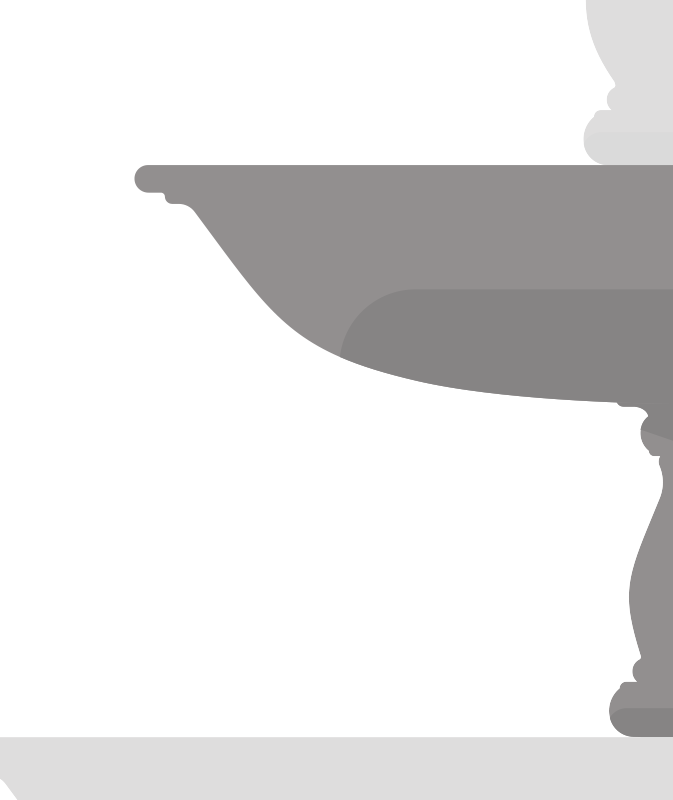
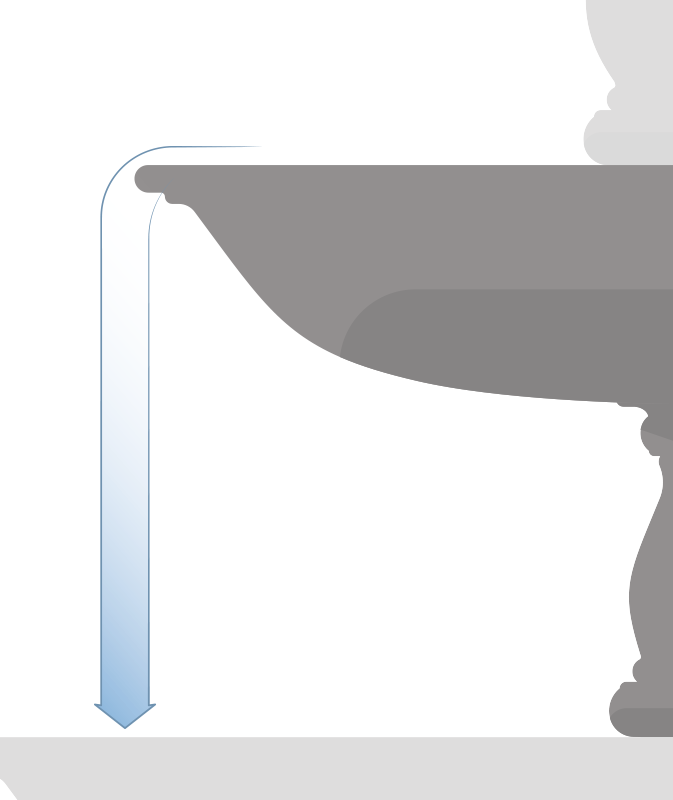
Stage 5 BG / Circles / Paths

Changed region(s): [[0.1248, 0.4688, 0.2496, 0.9062], [0.1872, 0.1875, 0.2184, 0.2188], [0.1248, 0.25, 0.156, 0.2812]]

diff --git a/assets/css/application.css b/assets/css/application.css
@@ -552,15 +552,15 @@ html, body {
 
 .stage-left {
   left: 0;
-  padding: 40px 20px 40px 80px;
-  border-right: 30.5px solid #6b6a6a;
+  margin-right: 30px;
+  padding: 40px 50px 40px 80px;
 }
 
 .stage-right {
   right: 0;
+  margin-left: 30px;
   padding: 40px 80px 40px 60px;
   background: #fff;
-  border-left: 31px solid #6b6a6a;
 }
 
 [data-segment] {
@@ -580,6 +580,7 @@ html, body {
   right: 140px;
   color: #438e47;
   text-align: right;
+  font-weight: 700;
 }
 
 .barriers {
@@ -587,8 +588,6 @@ html, body {
   top: 160px;
   right: 240px;
   color: #d83945;
-}
-.barriers li {
   font-weight: 700;
 }
 .barriers [class*="arrow-"] {
@@ -753,6 +752,7 @@ html, body {
   width: 61px;
   height: 100%;
   margin-left: -30px;
+  background: #4c4c4e;
 }
 
 .stage-mood {
@@ -1196,7 +1196,7 @@ html, body {
 }
 
 .stage-4 .stage-left {
-  background: url('/assets/images/bg-s4.png?1408657272') no-repeat right top;
+  background: url('/assets/images/bg-s4.png?1408658389') no-repeat right top;
 }
 
 .stage-4 .paths-circles {
@@ -1205,10 +1205,73 @@ html, body {
   right: 0;
   width: 658px;
   height: 612px;
-  background: url('/assets/images/paths-circles-s4.png?1408656901') no-repeat;
+  background: url('/assets/images/paths-circles-s4.png?1408657348') no-repeat;
+}
+
+.stage-4 .triggers {
+  top: 60px;
 }
 
 .stage-4 .barriers {
   top: 630px;
   right: 280px;
+}
+
+.stage-5 .stage-bg {
+  position: absolute;
+  top: 0;
+  left: 0;
+  width: 100%;
+  height: 100%;
+  background: url('/assets/images/bg-s5.png?1408659380') no-repeat center top;
+}
+
+.stage-5 .stage-right,
+.stage-5 .stage-paths {
+  margin-top: 389px;
+}
+
+.stage-5 .stage-right {
+  padding-top: 28px;
+}
+
+.stage-5 .stage-left {
+  border: none;
+}
+
+.stage-5 .circles {
+  position: absolute;
+  top: 0;
+  right: 300px;
+  width: 355px;
+  height: 384px;
+  background: url('/assets/images/circles-s5.png?1408661817') no-repeat;
+}
+
+.stage-5 .arrows {
+  position: absolute;
+  top: 396px;
+  right: 466px;
+  width: 25px;
+  height: 100%;
+  background: url('/assets/images/arrows-s5.png?1408662046') no-repeat;
+}
+
+.stage-5 .triggers {
+  top: 60px;
+  right: 90px;
+  text-align: left;
+}
+
+.stage-5 .barriers {
+  top: 560px;
+  right: 120px;
+}
+
+.stage-5 .urgency-note {
+  font-size: 12px;
+  font-size: 0.75rem;
+  clear: both;
+  padding-top: 20px;
+  font-style: italic;
 }

diff --git a/assets/sass/sections/_stage-5.scss b/assets/sass/sections/_stage-5.scss
@@ -1,0 +1,59 @@
+
+.stage-5 .stage-bg {
+  position: absolute;
+  top: 0;
+  left: 0;
+  width: 100%;
+  height: 100%;
+  background: $bg-s5 no-repeat center top;
+}
+
+.stage-5 .stage-right,
+.stage-5 .stage-paths {
+  margin-top: 389px;
+}
+
+.stage-5 .stage-right {
+  padding-top: 28px;
+}
+
+.stage-5 .stage-left {
+  border: none;
+}
+
+.stage-5 .circles {
+  position: absolute;
+  top: 0;
+  right: 300px;
+  width: 355px;
+  height: 384px;
+  background: $circles-s5 no-repeat;
+}
+
+.stage-5 .arrows {
+  position: absolute;
+  top: 396px;
+  right: 466px;
+  width: 25px;
+  height: 100%;
+  background: $arrows-s5 no-repeat;
+}
+
+.stage-5 .triggers {
+  top: 60px;
+  right: 90px;
+  text-align: left;
+}
+
+.stage-5 .barriers {
+  top: 560px;
+  right: 120px;
+}
+
+
+.stage-5 .urgency-note {
+  @include font-size(12px);
+  clear: both;
+  padding-top: 20px;
+  font-style: italic;
+}

diff --git a/assets/sass/global/_images.scss b/assets/sass/global/_images.scss
@@ -14,6 +14,8 @@ $circle-stay-s3: image-url("circle-stay-s3.png");
 
 $paths-circles-s4: image-url("paths-circles-s4.png");
 
+$circles-s5: image-url("circles-s5.png");
+
 
 
 
@@ -25,6 +27,8 @@ $arrow-down-s1: image-url("arrow-down-s1.png");
 
 $arrow-left-purple-s3: image-url("arrow-left-purple-s3.png");
 
+$arrows-s5: image-url("arrows-s5.png");
+
 
 
 
@@ -32,4 +36,4 @@ $bg-s1: image-url("bg-s1.png");
 $bg-s2: image-url("bg-s2.png");
 $bg-s3: image-url("bg-s3.png");
 $bg-s4: image-url("bg-s4.png");
-$bg-s5: image-url("bg-s4.png");
+$bg-s5: image-url("bg-s5.png");

diff --git a/assets/sass/stage/_base.scss b/assets/sass/stage/_base.scss
@@ -36,15 +36,15 @@
 
 .stage-left {
   left: 0;
-  padding: 40px 20px 40px 80px;
-  border-right: 30.5px solid $grey;
+  margin-right: 30px;
+  padding: 40px 50px 40px 80px;
 }
 
 .stage-right {
   right: 0;
+  margin-left: 30px;
   padding: 40px 80px 40px 60px;
   background: #fff;
-  border-left: 31px solid $grey;
 }
 
 [data-segment] {

diff --git a/assets/sass/stage/_left.scss b/assets/sass/stage/_left.scss
@@ -5,6 +5,7 @@
   right: 140px;
   color: $green;
   text-align: right;
+  font-weight: $bold;
 }
 
 .barriers {
@@ -12,10 +13,7 @@
   top: 160px;
   right: 240px;
   color: $red;
-  
-  li {
-    font-weight: $bold;
-  }
+  font-weight: $bold;
   
   [class*="arrow-"] {
     position: absolute;

diff --git a/assets/sass/sections/_stage-4.scss b/assets/sass/sections/_stage-4.scss
@@ -12,6 +12,10 @@
   background: $paths-circles-s4 no-repeat;
 }
 
+.stage-4 .triggers {
+  top: 60px;
+}
+
 .stage-4 .barriers {
   top: 630px;
   right: 280px;

diff --git a/assets/sass/application.scss b/assets/sass/application.scss
@@ -30,3 +30,4 @@
 @import "sections/stage-2";
 @import "sections/stage-3";
 @import "sections/stage-4";
+@import "sections/stage-5";

diff --git a/assets/sass/stage/_paths.scss b/assets/sass/stage/_paths.scss
@@ -6,6 +6,7 @@
   width: 61px;
   height: 100%;
   margin-left: -30px;
+  background: $dk-grey;
 }
 
 .stage-mood {

diff --git a/views/stage-5.php b/views/stage-5.php
@@ -1,17 +1,17 @@
   
 <section id="stage-5" class="stage stage-5 section">
 
+  <div class="stage-bg"></div>
+
   <div class="stage-left">
   
-    <div class="triggers fadeInUp animated">
-      <h2>Triggers</h2>
+    <div class="triggers">
       <ul>
         <li>Quality customer service</li>
         <li>Convenient and fast installation process</li>
         <li>Simple to use, reliable technology</li>
         <li>Clear and transparent billing</li>
       </ul>
-      <div class="arrow-triggers"></div>
     </div>
 
     <div class="barriers">
@@ -23,13 +23,16 @@
         <li>Poor customer service experiences</li>
       </ul>
     </div>
+    
+    <div class="circles"></div>
+    <div class="arrows"></div>
   
   </div>
   
   <div class="stage-right">
     
     <div class="stage-header">
-      <div class="stage-position">4 / 5</div>
+      <div class="stage-position">5 / 5</div>
       <h1 class="stage-title">Switch</h1>
       <p class="stage-question">Which TV provider will provide an improved experience?</p>
     </div>
@@ -44,6 +47,9 @@
       <div class="col thinking">
         <h3>Thinking</h3>
         <p>Decision criteria, the belief in a better service</p>
+      </div>
+      
+      <div class="urgency-note">
         <p>Outside life events, such as an impending move or baby, create urgency that results in a higher likelihood to quickly secure a new TV provider.</p>
       </div>
     
@@ -58,10 +64,10 @@
       <div class="mood">Excited</div>
     </div>
     
-    <div class="path-1" data-segment="indulgers"></div>
+<!--     <div class="path-1" data-segment="indulgers"></div> -->
     <div class="path-2" data-segment="enthusiasts"></div>
-    <div class="path-3" data-segment="flexibles"></div>
-    <div class="path-4" data-segment="traditionals"></div>
+<!--     <div class="path-3" data-segment="flexibles"></div> -->
+<!--     <div class="path-4" data-segment="traditionals"></div> -->
     
   </div>
   
